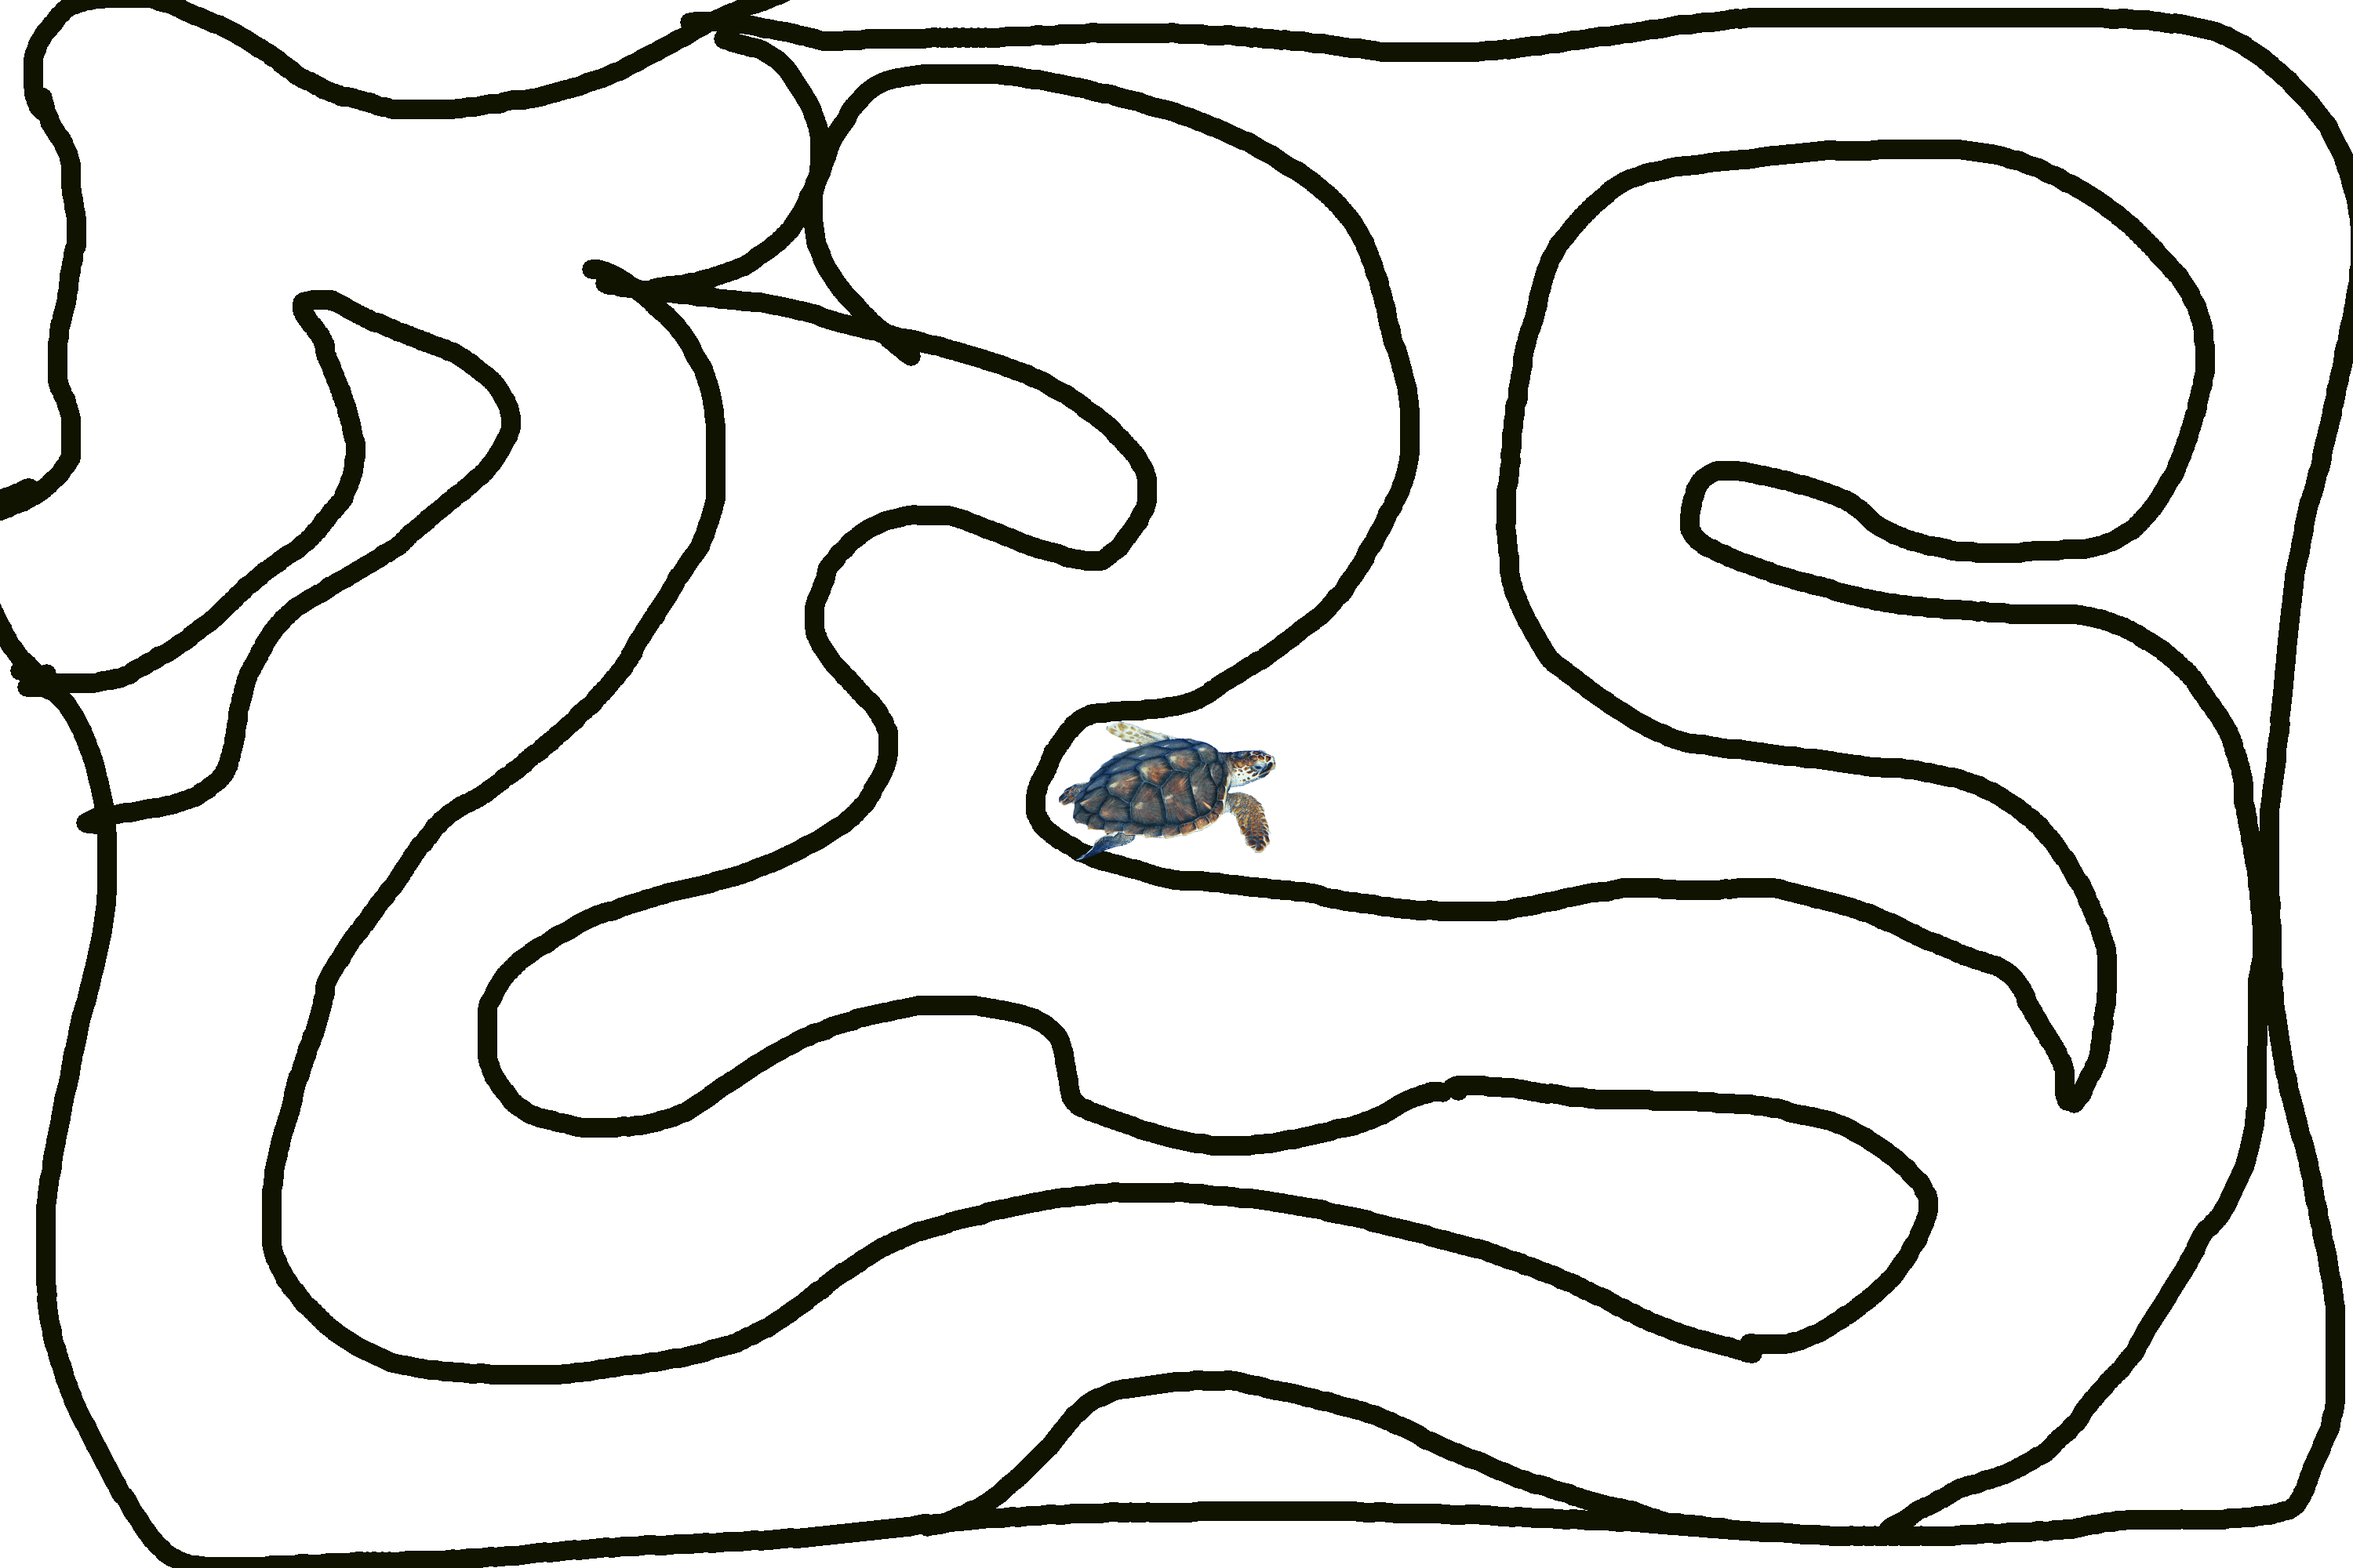
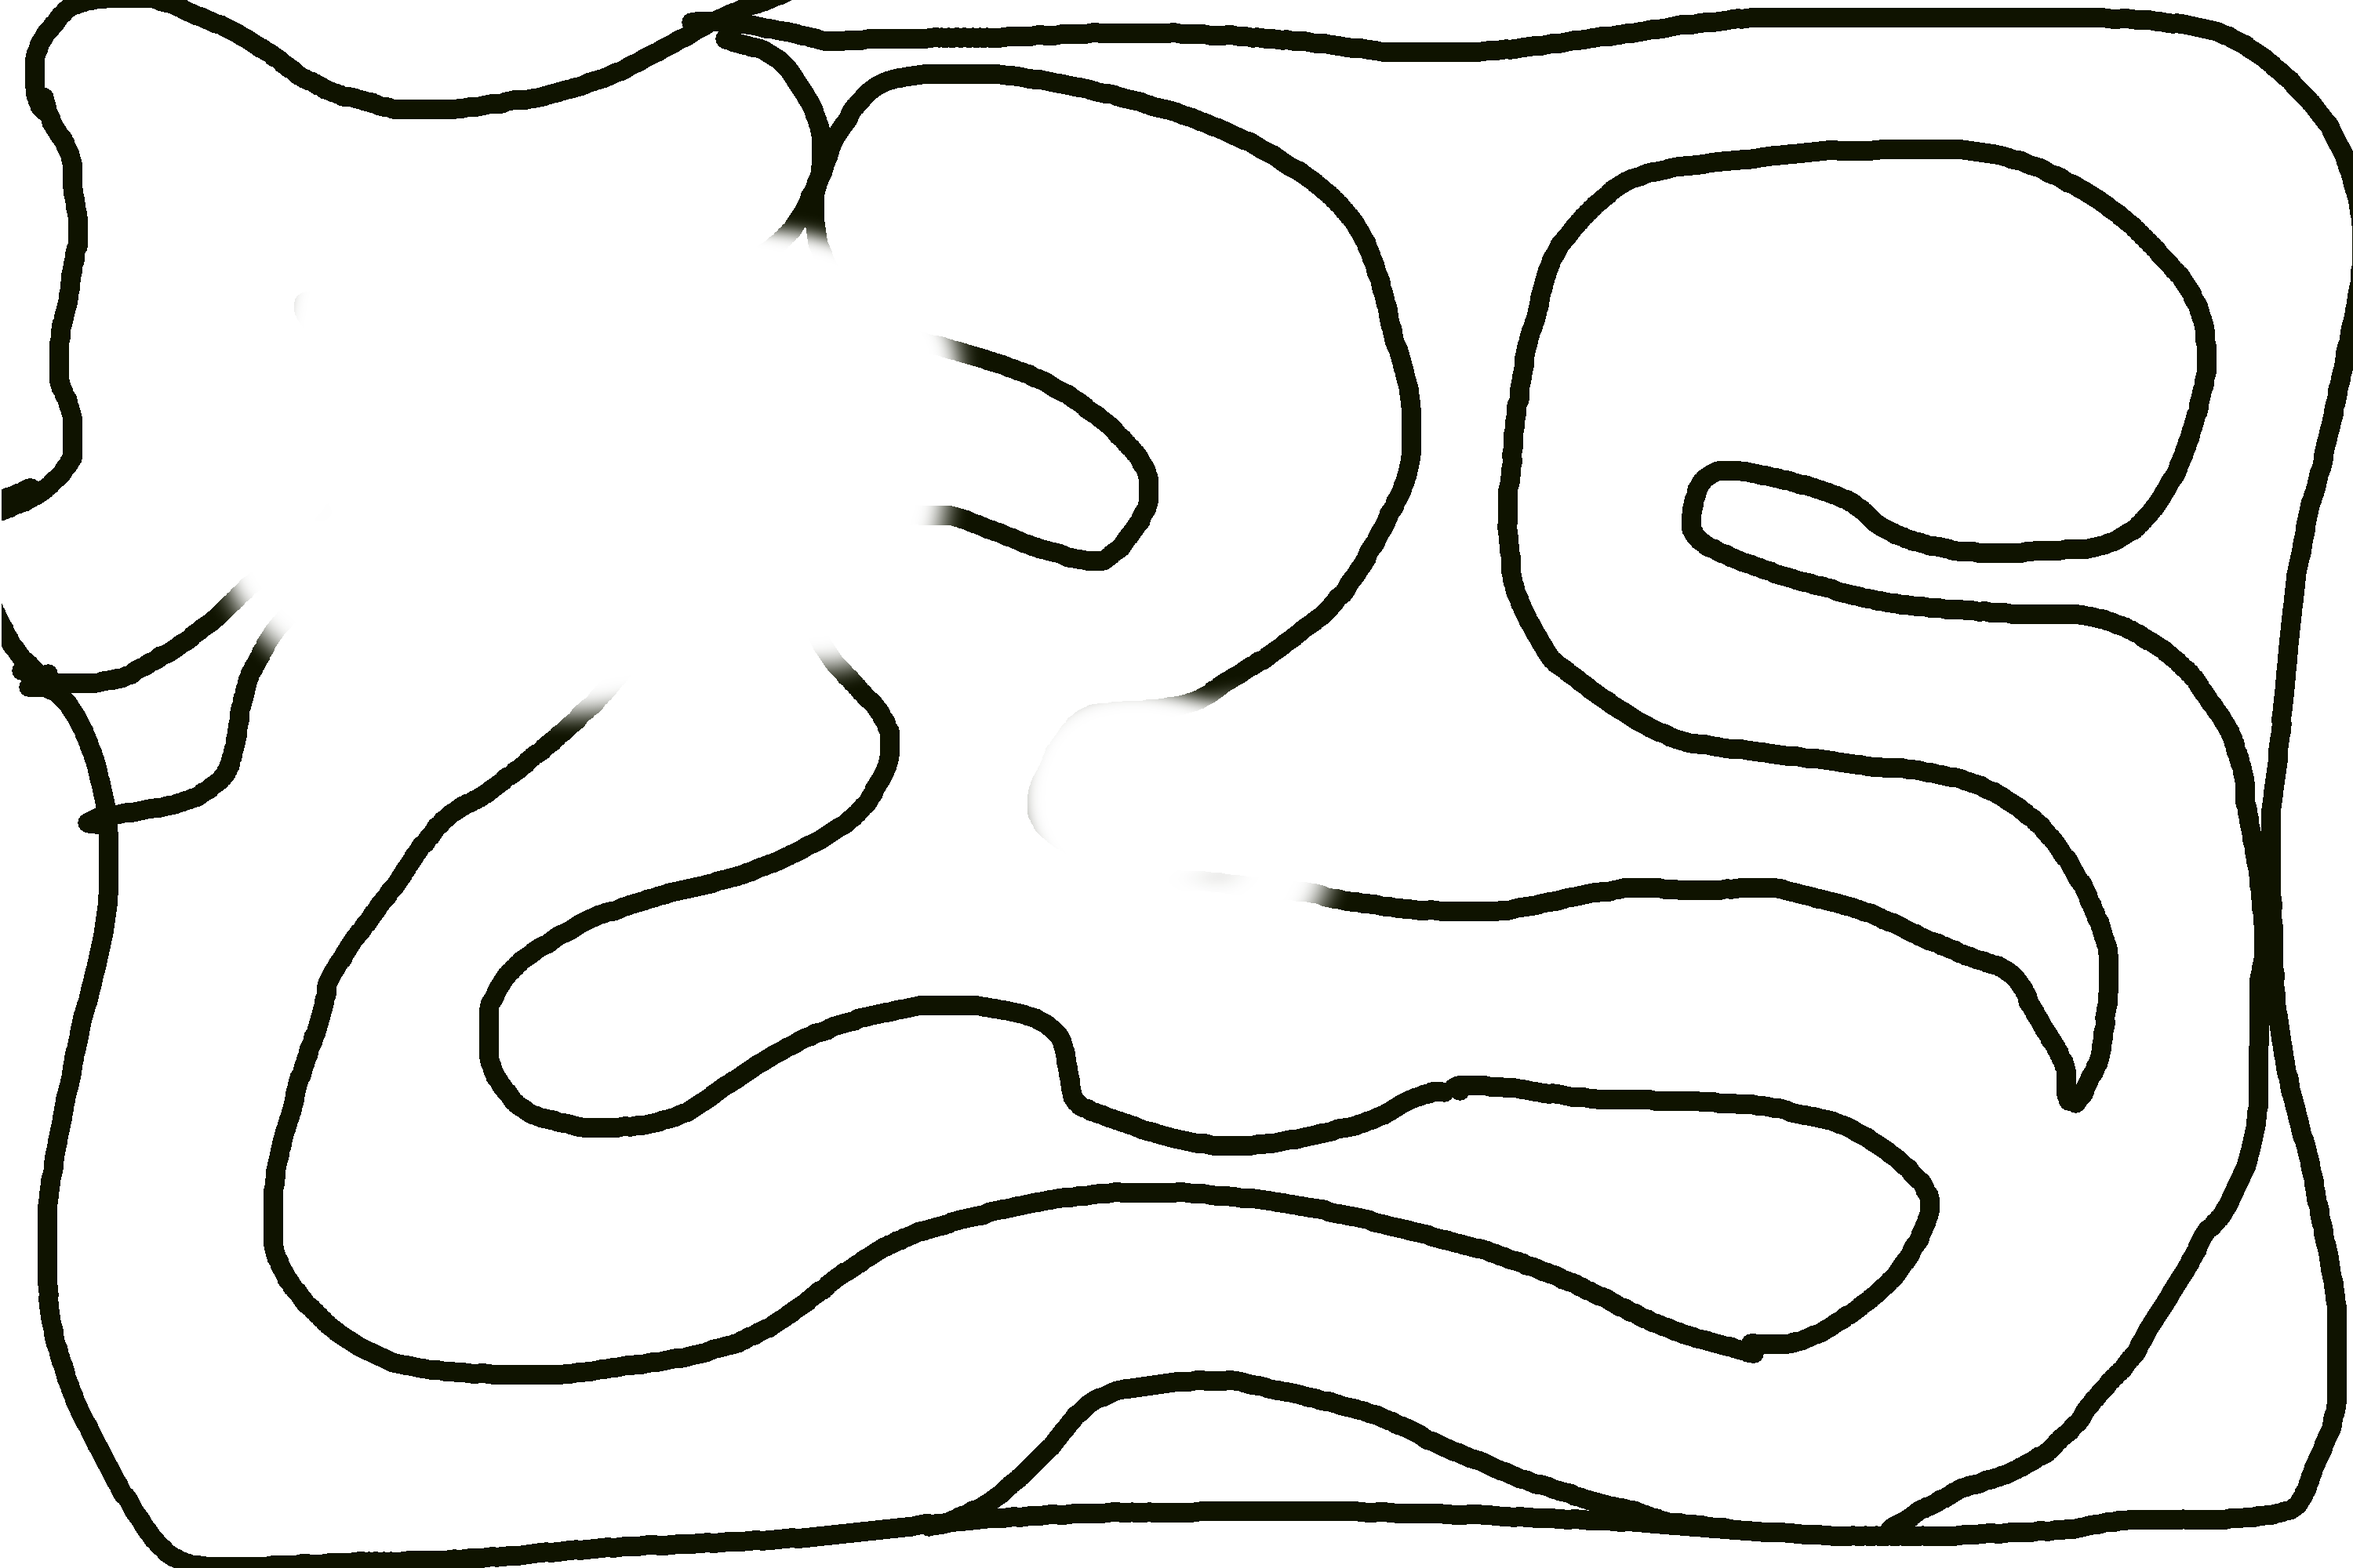
added boundaries

diff --git a/test.py b/test.py
@@ -14,10 +14,21 @@ logo = pygame.image.load("turtle_left.png")
 pygame.display.set_icon(logo)
 pygame.display.set_caption("Turtles In Trash")
 
+keystroke = 0
+LEFT = 1
+RIGHT = 2
+UP = 3
+DOWN = 4
+
 going = 1
 
 screen_x = 1450
 screen_y = 800
+boundary_left = 725
+boundary_up = -400
+boundary_right = -1560
+boundary_down = -1200
+
 screen = pygame.display.set_mode((screen_x,screen_y), HWSURFACE | DOUBLEBUF) #sets the display screen
 # set display color as ocean blue
 screen.fill((7,176,157))
@@ -29,20 +40,22 @@ def load_image(i):
     return pygame.image.load(os.path.join(".", i)).convert_alpha()
 
 turtle = load_image("turtle_right.png")
-trash = load_image("map.png")
+map = load_image("map.png")
 ocean = load_image("ocean.jpg")
 ocean = pygame.transform.scale2x(ocean)
 
 # create a mask for each of them.
 turtle_mask = pygame.mask.from_surface(turtle, 50)
-trash_mask = pygame.mask.from_surface(trash, 50)
+map_mask = pygame.mask.from_surface(map, 50)
 
 turtle_rect = turtle.get_rect()
-trash_rect = trash.get_rect()
+map_rect = map.get_rect()
 
-# a message for if the balloon hits the terrain.
+# a message for if the map hits the terrain.
 afont = pygame.font.Font(None, 16)
 hitsurf = afont.render("Hit!!!  Oh noes!!", 1, (255,255,255))
+boundr = afont.render("Can't move anymore", 1, (255,255,255))
+
 
 if screen.get_bitsize() == 8:
     screen.set_palette(ocean.get_palette())
@@ -57,32 +70,46 @@ yblocks = range(0, screen_y, 20)
 
 # start the main loop.
 
+
+
 while going:
     pygame.event.pump()
     keys = pygame.key.get_pressed()
     if keys[QUIT] or keys[K_ESCAPE]:
         going = 0
-    # if e.type == pygame.KEYDOWN:
-    #     # move the balloon around, depending on the keys.
+
+    # move the map around, depending on the keys.
     if keys[K_LEFT]:
-        trash_rect.x += 3
-        turtle = load_image("turtle_left.png")
+        # print(map_rect.x)
+        keystroke = LEFT
+        if map_rect.x +3 <= 0:
+            map_rect.x += 5
+        #turtle = load_image("turtle_left.png")
     if keys[K_RIGHT]:
-        trash_rect.x -= 3
-        turtle = load_image("turtle_right.png")
-
+        keystroke = RIGHT
+        # print(map_rect.x)
+        if map_rect.x -3 >= boundary_right:
+            map_rect.x -= 5
+        #turtle = load_image("turtle_right.png")
     if keys[K_UP]:
-        trash_rect.y += 3
+        keystroke = UP
+        # print(map_rect.y)
+        if map_rect.y +3 <= 0:
+            map_rect.y += 5
     if keys[K_DOWN]:
-        trash_rect.y -= 3
+        keystroke = DOWN
+        # print(map_rect.y)
+        if map_rect.y -3 >= boundary_down:
+            map_rect.y -= 5
 
-    # see how far the balloon rect is offset from the terrain rect.
-    bx, by = (trash_rect[0], trash_rect[1])
+
+    # see how far the map rect is offset from the turtle rect.
+    bx, by = (map_rect[0], map_rect[1])
     offset_x = bx - math.floor(screen_x/2-150)#turtle_rect[0]
     offset_y = by - math.floor(screen_y/2-100)#turtle_rect[1]
 
     #print bx, by
-    overlap = turtle_mask.overlap(trash_mask, (offset_x, offset_y))
+    overlap = turtle_mask.overlap(map_mask, (offset_x, offset_y))
 
     #
     last_bx, last_by = bx, by
@@ -99,18 +126,26 @@ while going:
             ypos = (y + (sin(anim + y * 0.01) * 15)) + 20
             screen.blit(ocean, (x, y), (xpos, ypos, 20, 20))
 
-    # draw trash + turtle
-    screen.blit(trash, (trash_rect[0], trash_rect[1]) )
-    screen.blit(turtle,(screen_x/2-150,screen_y/2-100)) #draws turtle in center
-    # draw the balloon rect, so you can see where the bounding rect would be.
-    pygame.draw.rect(screen, (0,255,0), trash_rect, 1)
-
-
-    # see if there was an overlap of pixels between the balloon
+    # see if there was an overlap of pixels between the map
     #   and the terrain.
     if overlap:
         # we have hit the wall!!!  oh noes!
-        screen.blit(hitsurf, (0,0))
+        if keys[K_LEFT]:
+            map_rect.x -= 5
+        if keys[K_RIGHT]:
+            map_rect.x += 5
+        if keys[K_UP]:
+            map_rect.y -= 5
+        if keys[K_DOWN]:
+            map_rect.y += 5
+        print("COLLISION!")
+
+    # draw map + turtle
+    screen.blit(map, (map_rect[0], map_rect[1]) )
+    screen.blit(turtle,(screen_x/2-150,screen_y/2-100)) #draws turtle in center
+    # draw the map rect, so you can see where the bounding rect would be.
+    pygame.draw.rect(screen, (0,255,0), map_rect, 1)
+
 
     # flip the display.
     pygame.display.flip()
@@ -118,7 +153,5 @@ while going:
 
     # # limit the frame rate to 40fps.
     # clock.tick(40)
-
-
 
 pygame.quit()
